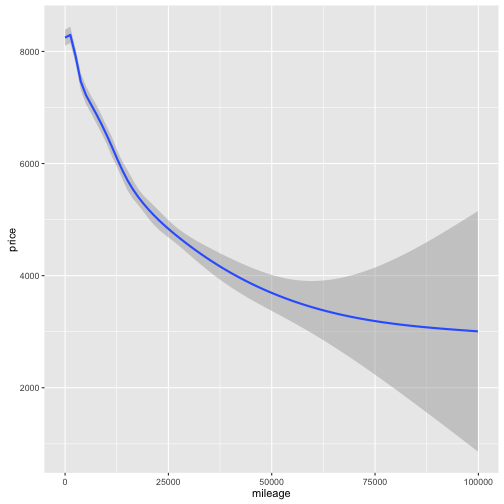
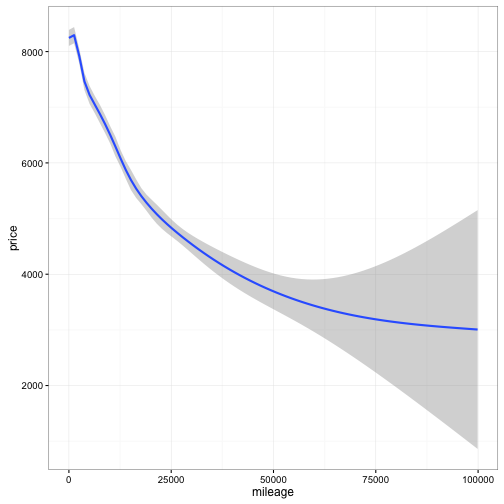
Site updated at 2016-02-04 08:07:11 UTC

diff --git a/blog/2016/02/03/motorbike-prices-part-1/index.html b/blog/2016/02/03/motorbike-prices-part-1/index.html
@@ -130,6 +130,7 @@ Yet in the end, once you have set your mind on one or two models, you still have
 <div class="highlight"><pre><code class="language-r" data-lang="r">libs<span class="o">=</span><span class="kt">c</span><span class="p">(</span><span class="s">&#39;data.table&#39;</span><span class="p">,</span><span class="s">&#39;knitr&#39;</span><span class="p">,</span><span class="s">&#39;ggplot2&#39;</span><span class="p">,</span><span class="s">&#39;stringr&#39;</span><span class="p">,</span><span class="s">&#39;pander&#39;</span><span class="p">,</span><span class="s">&#39;dplyr&#39;</span><span class="p">,</span><span class="s">&#39;lubridate&#39;</span><span class="p">)</span>
 <span class="kp">invisible</span><span class="p">(</span><span class="kp">lapply</span><span class="p">(</span>libs<span class="p">,</span> <span class="kn">require</span><span class="p">,</span> character.only<span class="o">=</span><span class="kc">TRUE</span><span class="p">))</span>
 
+theme_set<span class="p">(</span>theme_bw<span class="p">())</span>
 data <span class="o">=</span> fread<span class="p">(</span><span class="s">&#39;~/Dev/autoray/out.csv&#39;</span><span class="p">)</span>
 
 data <span class="o">=</span> <span class="kp">within</span><span class="p">(</span>data<span class="p">,</span> <span class="p">{</span>
